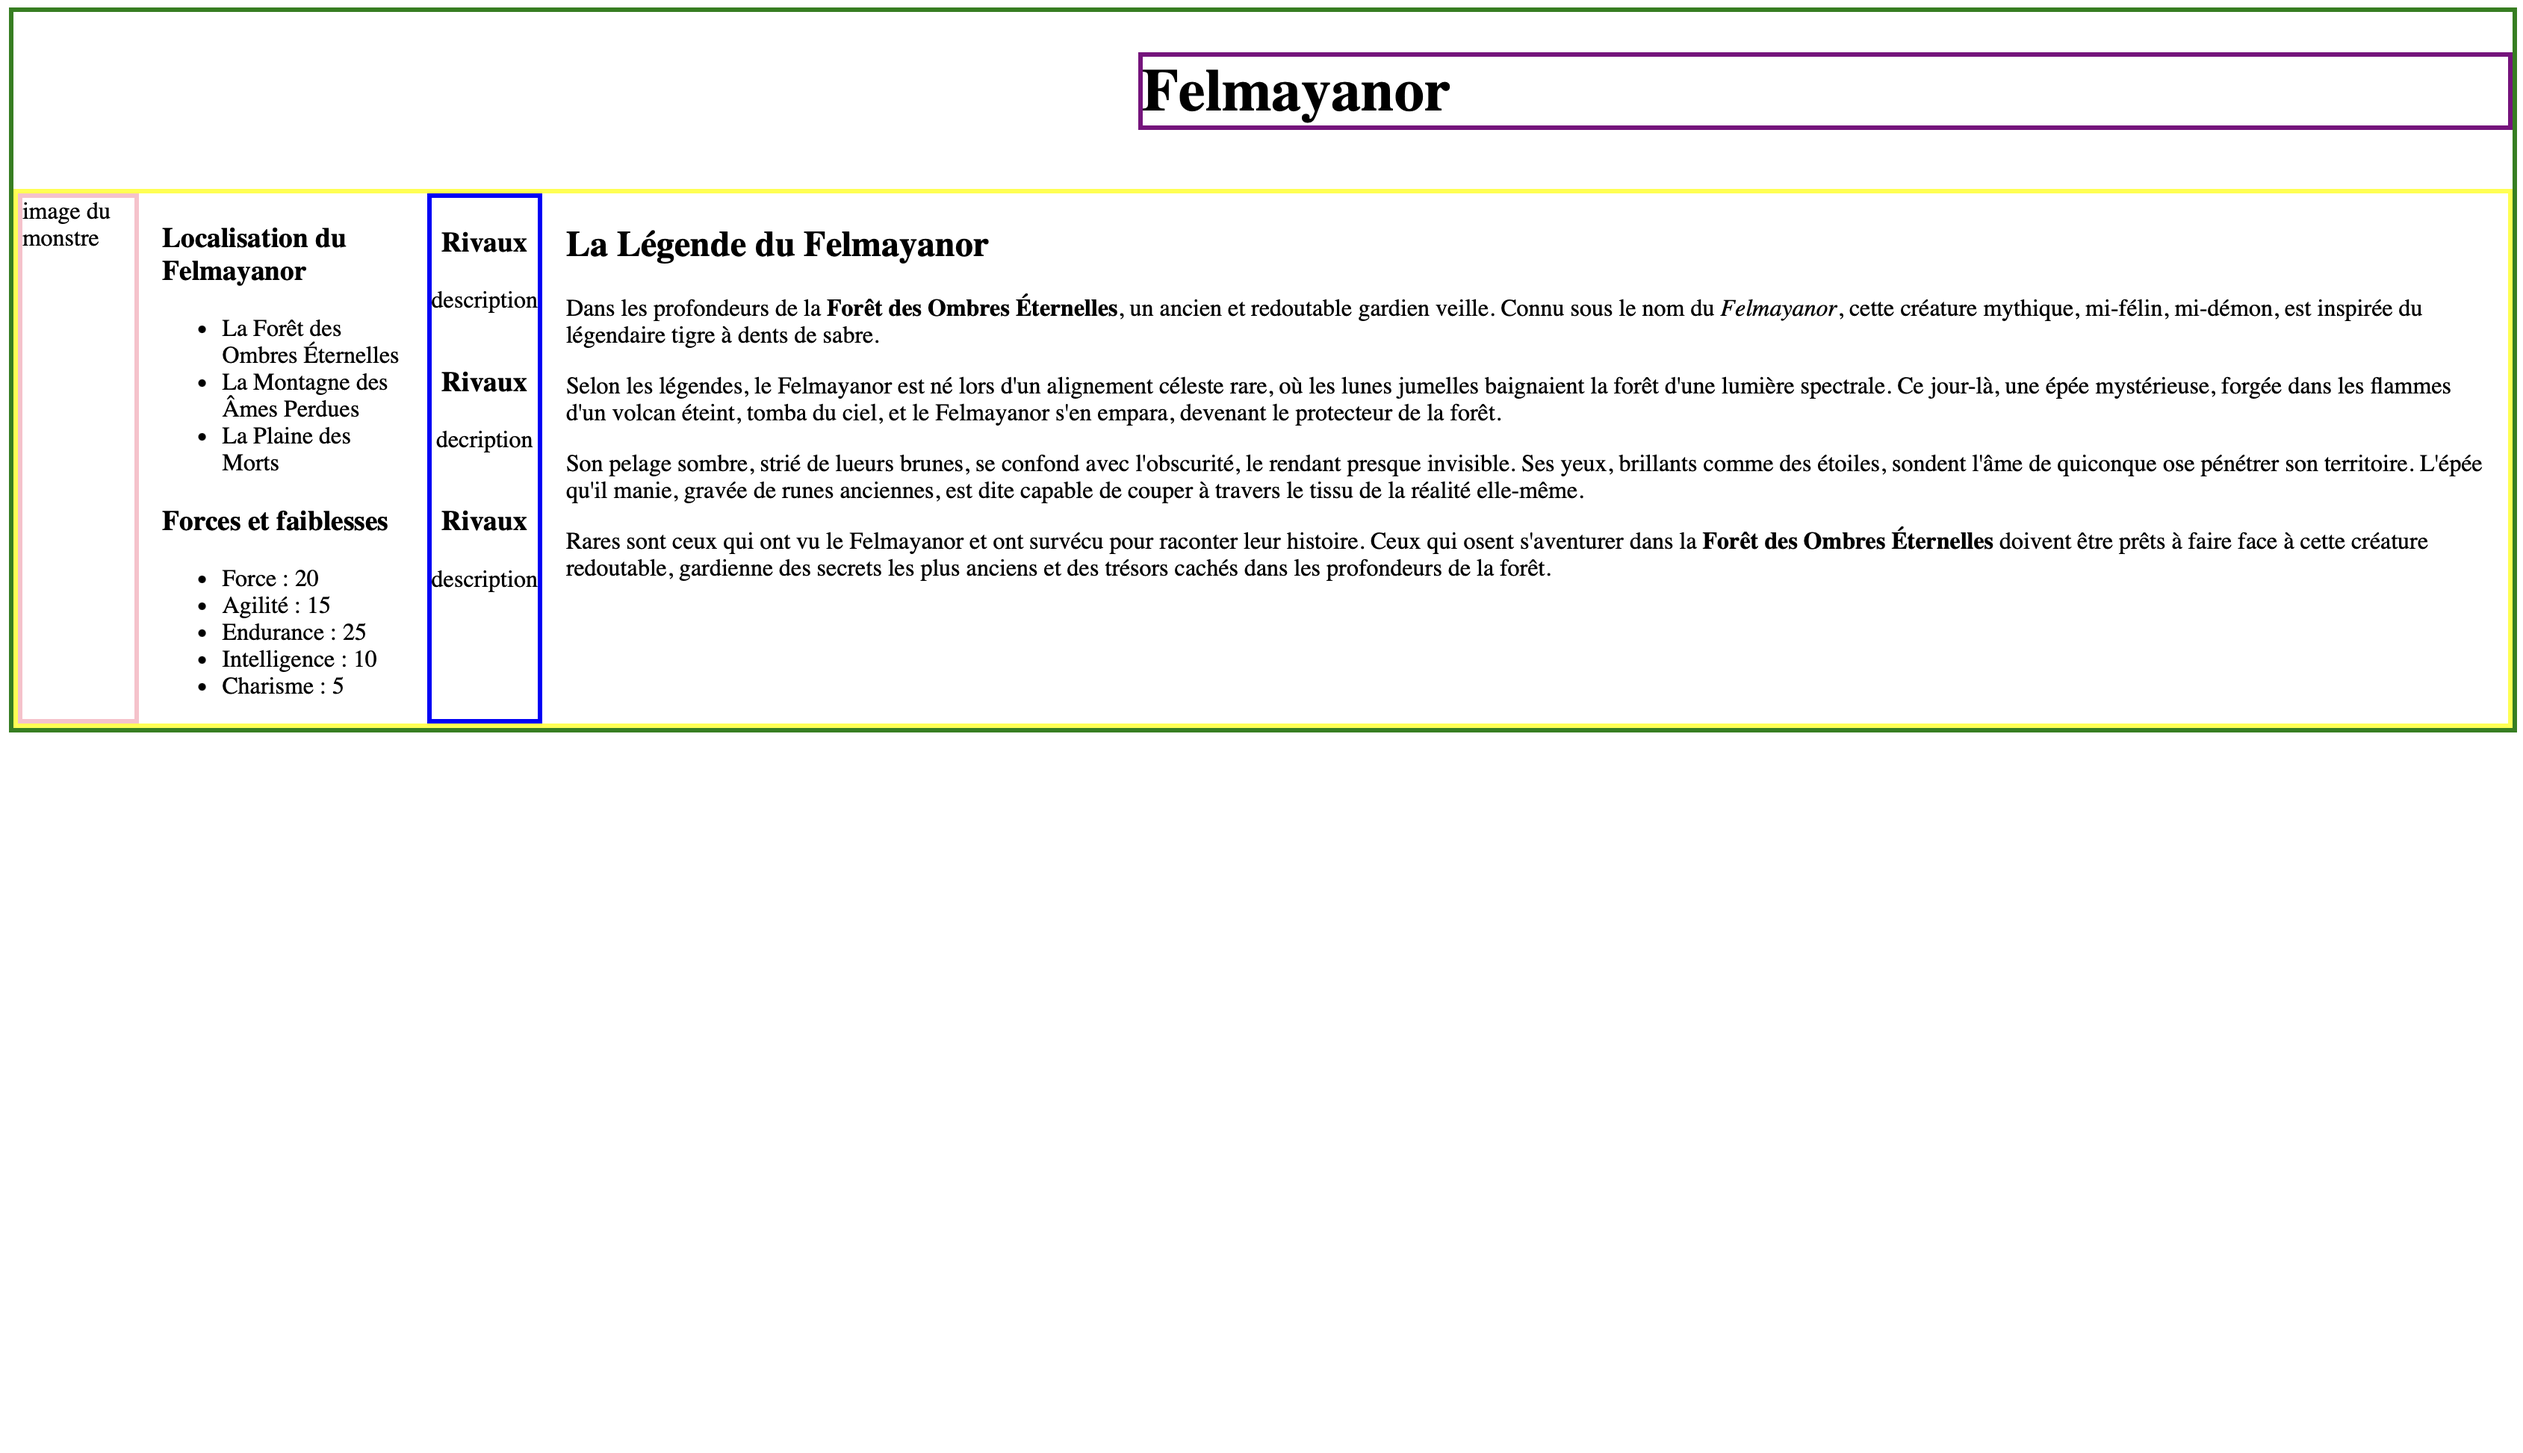
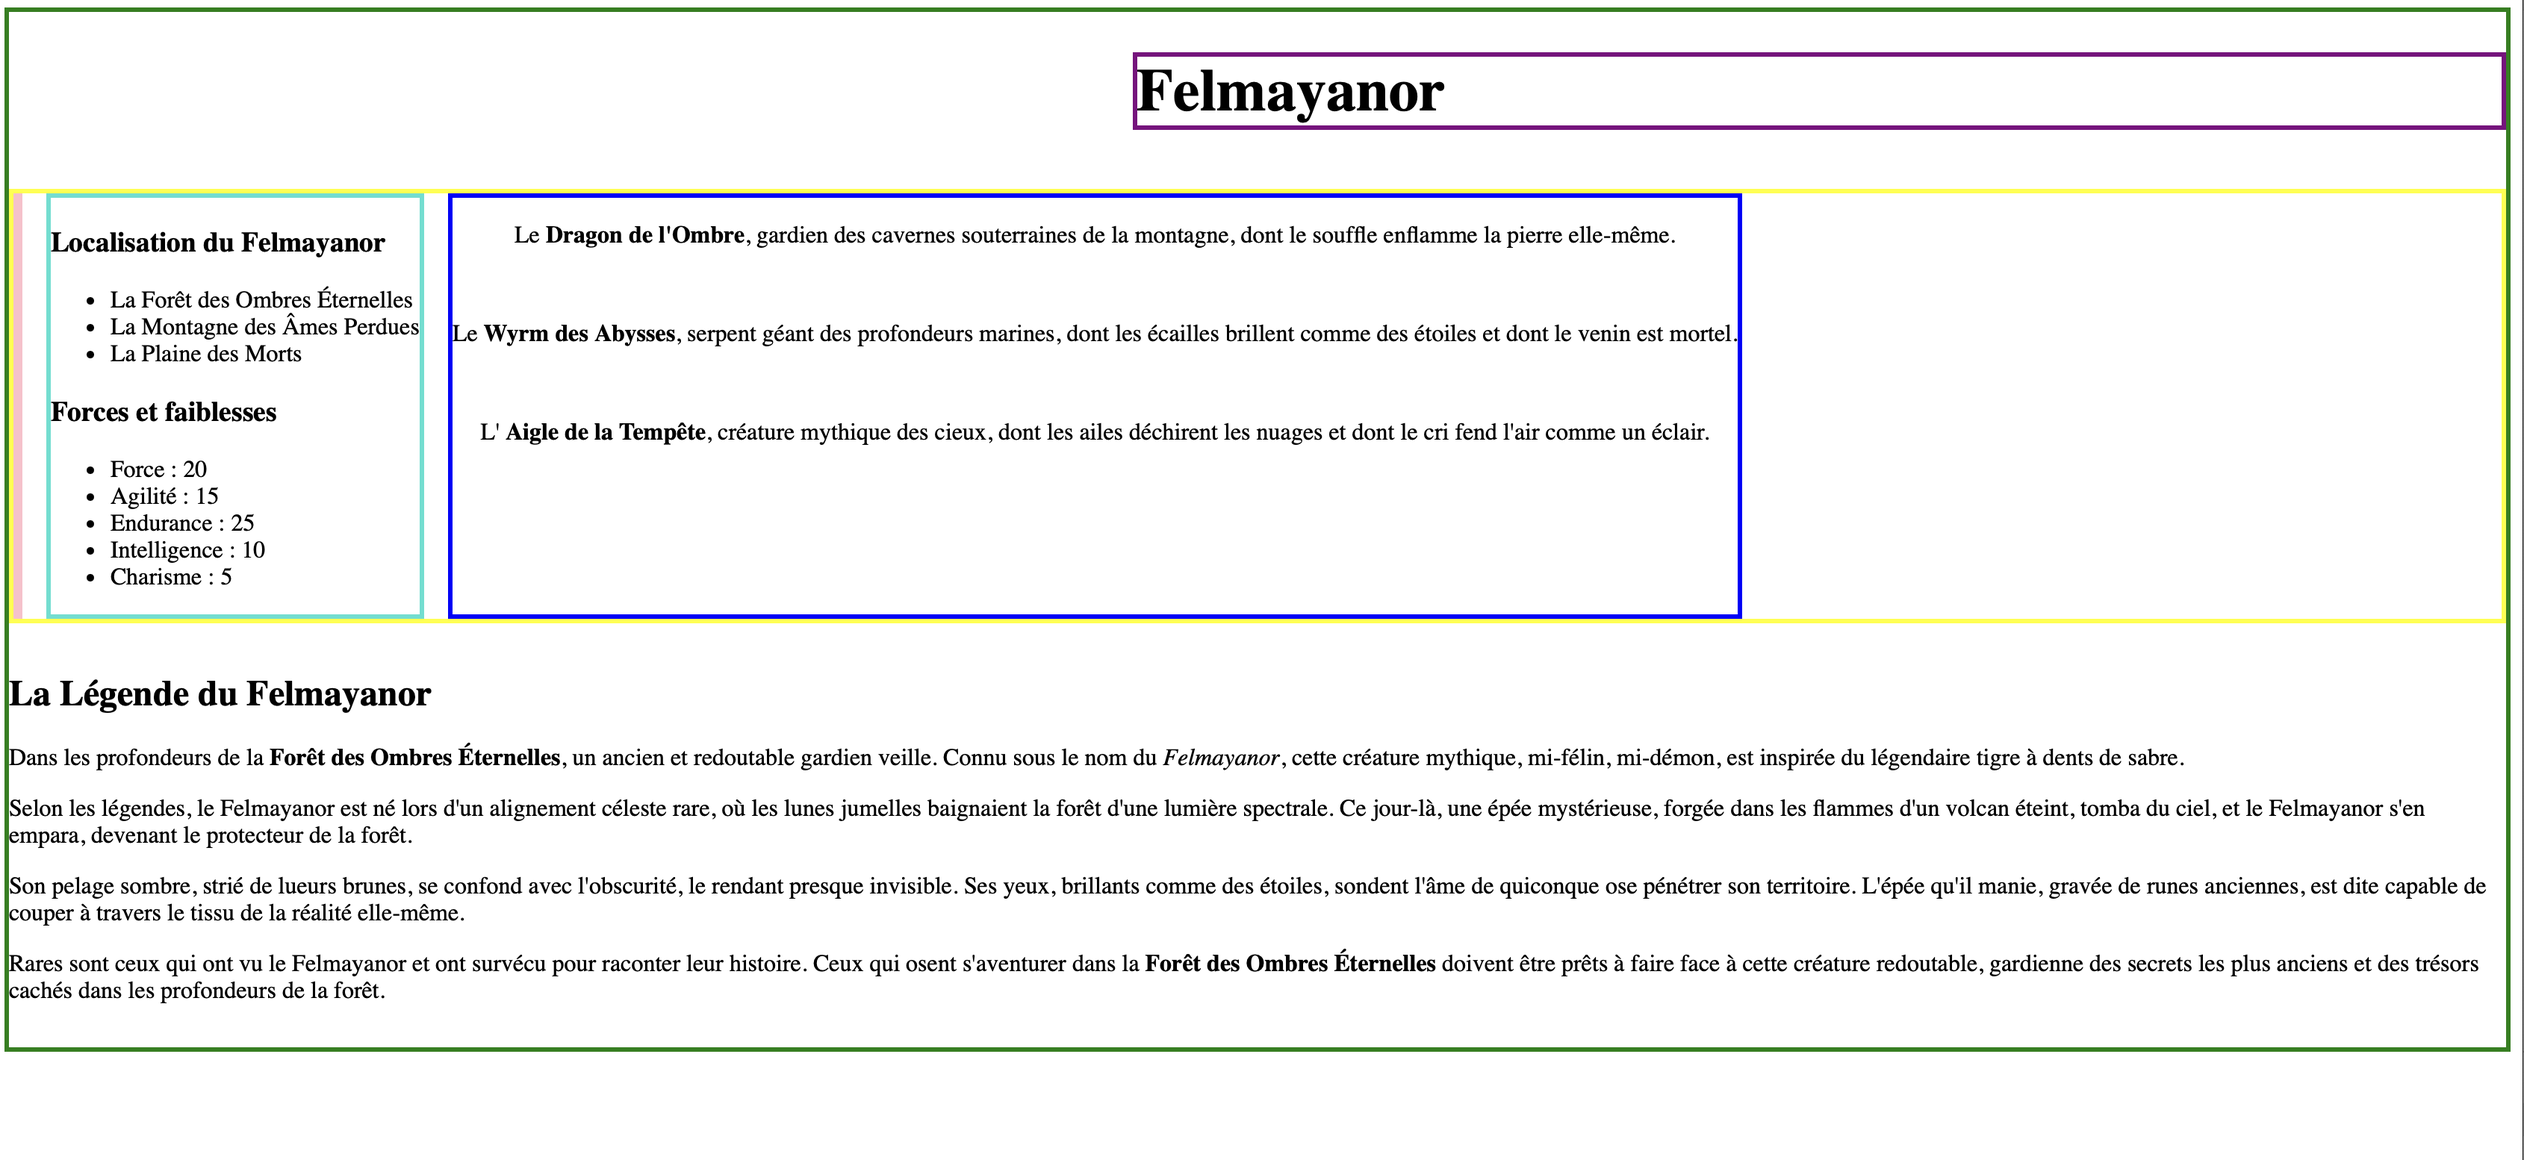
lkdjfkl

Changed region(s): [[0.0, 0.0, 1.0, 1.0], [0.0, 0.5869, 0.1865, 0.6178]]

diff --git a/docs/premiere/I - Constructions élémentaires/Fiches d'exercices/draft.py b/docs/premiere/I - Constructions élémentaires/Fiches d'exercices/draft.py
@@ -25,4 +25,13 @@ def somme_premiers(n):
             somme += i
     return somme
 
-print(somme_premiers(10))
+def f(n):
+        x = 0
+        y = 1
+        chaine = ''
+        for i in range(n):
+            print(x)
+            y = x + y
+            x = y - x
+
+f(10)

diff --git a/docs/seconde/II - Web/Projet_creation_site.md b/docs/seconde/II - Web/Projet_creation_site.md
@@ -25,11 +25,13 @@ Le site est aussi régi par une feuille de style qui n'est pas à modifier pour 
 
 Vous allez devoir pour cette première partie : 
 
-**Modifier le Nom du monstre pour qu'il corresponde à un titre de niveau 1.**
+**Dans le bloc violet : Modifier le Nom du monstre pour qu'il corresponde à un titre de niveau 1.**
 
-**Ajouter chacune des localisations où l'on peut retrouver votre monstre.**
+**Dans le bloc bleu : Ajouter un paragraphe expliquant la rivalité entre les deux.**
 
-**Ajouter une liste à puce correspondant à ses statistiques si l'on souhaite transformer ce bestiaire en un jeu de rôle.**
+**Dans le bloc à côté de l'image : Ajouter chacune des localisations où l'on peut retrouver votre monstre.**
+
+**Dans le bloc précédent : Ajouter une liste à puce correspondant à ses statistiques si l'on souhaite transformer ce bestiaire en un jeu de rôle.**
 
 **Ajouter dans le bloc contenant la description et l'histoire de son monstre, un petit titre de niveau 3 parlant de sa légende et un paragraphe expliquant l'histoire du monstre.**
 
